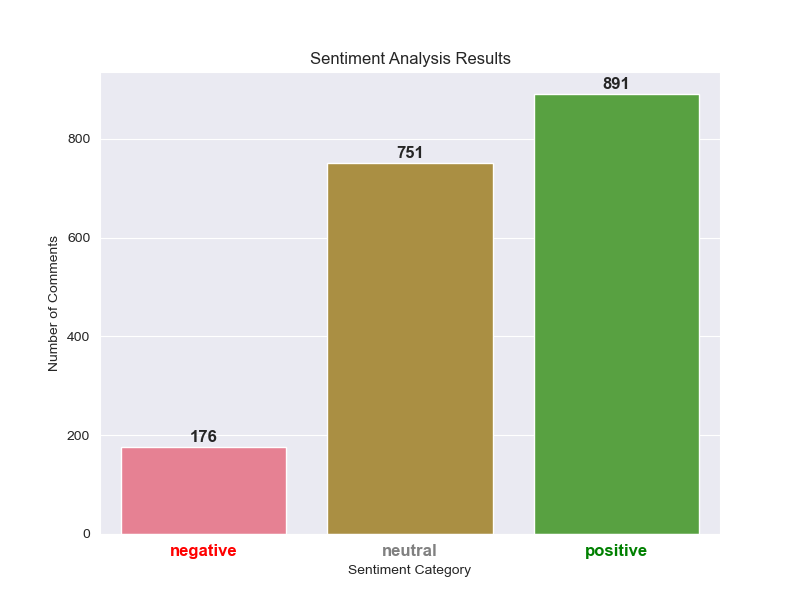
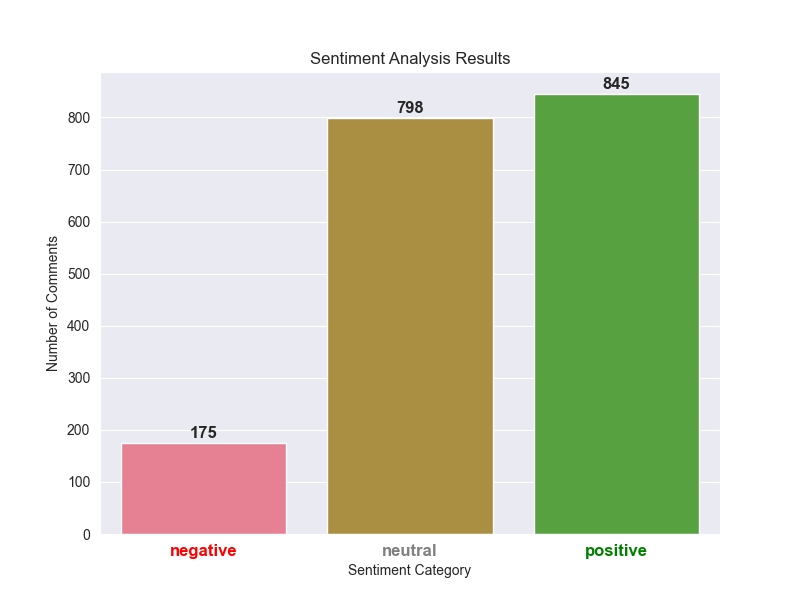
timestamp

diff --git a/templates/results.html b/templates/results.html
@@ -2,6 +2,30 @@
 <html>
 <head>
     <title>Results</title>
+    <style>
+        body {
+            font-family: Arial, sans-serif;
+            margin: 40px;
+        }
+
+        h1 {
+            text-align: center;
+            margin-bottom: 20px;
+        }
+
+        h2 {
+            margin-top: 40px;
+            margin-bottom: 10px;
+        }
+
+        img {
+            display: block;
+            margin: 20px auto;
+            max-width: 800px;
+            border: 1px solid #ddd;
+            border-radius: 5px;
+        }
+    </style>
 </head>
 <body>
     <h1>Results</h1>
@@ -9,7 +33,12 @@
     <h2>Word Cloud</h2>
     <img src="{{ url_for('static', filename='wordcloud.png') }}" alt="Word Cloud">
 
-    <h2>Additional Information</h2>
-    <p>You can add any additional information or messages here.</p>
+    <h2>Sentiment Counts</h2>
+    <img src="{{ url_for('static', filename='count.png') }}" alt="Sentiment Counts">
+
+    <h2>Word Frequencies</h2>
+    <img src="{{ url_for('static', filename='frequency.png') }}" alt="Word Frequencies">
 </body>
 </html>
+
+

diff --git a/app.py b/app.py
@@ -1,9 +1,12 @@
-from flask import Flask, render_template, request
+from flask import Flask, render_template, request, after_this_request
 import pandas as pd
+import threading
 import nltk
 import string
 import re
 import matplotlib.pyplot as plt
+import matplotlib
+matplotlib.use('agg')
 import seaborn as sns
 import demoji
 
@@ -46,6 +49,116 @@ def generate_wordcloud(df):
     plt.imshow(wordcloud, interpolation='bilinear')
     plt.axis("off")
     plt.savefig('static/wordcloud.png')
+    plt.close()
+
+def plot_sentiment_counts(df):
+    # Set the style and color palette
+    sns.set_style('darkgrid')
+    sns.set_palette('husl')
+
+    # Get the count of comments in each sentiment category
+    sentiment_counts = df['sentiment_category'].value_counts().sort_index()
+
+    # Plot the bar chart
+    fig, ax = plt.subplots(figsize=(8, 6))
+    sns.barplot(x=sentiment_counts.index, y=sentiment_counts.values, ax=ax)
+    ax.set_xlabel('Sentiment Category')
+    ax.set_ylabel('Number of Comments')
+    ax.set_title('Sentiment Analysis Results')
+
+    # Add labels to the bars
+    for i, v in enumerate(sentiment_counts.values):
+        ax.text(i, v+10, str(v), ha='center', fontweight='bold', fontsize=12)
+
+    # Label the bars
+    for i, label in enumerate(ax.get_xticklabels()):
+        sentiment = label.get_text()
+        if sentiment == 'positive':
+            label.set_text(f'{sentiment.capitalize()} comments')
+            label.set_color('green')
+        elif sentiment == 'neutral':
+            label.set_text(f'{sentiment.capitalize()} comments')
+            label.set_color('gray')
+        else:
+            label.set_text(f'{sentiment.capitalize()} comments')
+            label.set_color('red')
+            # Update the label for negative sentiment category
+            label.set_text(f'{sentiment.capitalize()} comments ({sentiment_counts[sentiment]})')
+        label.set_fontweight('bold')
+        label.set_fontsize(12)
+
+    plt.savefig('static/count.png')
+    plt.close()
+
+def plot_word_frequencies(df):
+    # Define the stop words
+    stop_words = set(stopwords.words('english'))
+
+    # Define the minimum word frequency threshold
+    min_freq = 10
+
+    # Create separate dataframes for each sentiment category
+    positive_df = df[df['sentiment_category'] == 'positive']
+    neutral_df = df[df['sentiment_category'] == 'neutral']
+    negative_df = df[df['sentiment_category'] == 'negative']
+
+    # Tokenize the comments and remove stop words for each dataframe
+    positive_words = tokenize_comments(positive_df['cleaned_comments'])
+    neutral_words = tokenize_comments(neutral_df['cleaned_comments'])
+    negative_words = tokenize_comments(negative_df['cleaned_comments'])
+
+    # Count the frequency of each word in each dataframe
+    positive_freq = nltk.FreqDist(positive_words)
+    neutral_freq = nltk.FreqDist(neutral_words)
+    negative_freq = nltk.FreqDist(negative_words)
+
+    # Remove words that appear less frequently than the minimum frequency threshold
+    positive_freq = {k: v for k, v in positive_freq.items() if v >= min_freq}
+    neutral_freq = {k: v for k, v in neutral_freq.items() if v >= min_freq}
+    negative_freq = {k: v for k, v in negative_freq.items() if v >= min_freq}
+
+    # Sort the dictionaries by word frequency in descending order
+    positive_freq = dict(sorted(positive_freq.items(), key=lambda item: item[1], reverse=True))
+    neutral_freq = dict(sorted(neutral_freq.items(), key=lambda item: item[1], reverse=True))
+    negative_freq = dict(sorted(negative_freq.items(), key=lambda item: item[1], reverse=True))
+
+    # Plot the top 20 most frequent words in each sentiment category
+    plt.figure(figsize=(15, 10))
+
+    plt.subplot(3, 1, 1)
+    plt.bar(list(positive_freq.keys())[:20], list(positive_freq.values())[:20])
+    plt.title('Most Frequent Words in Positive Comments')
+    plt.xlabel('Word')
+    plt.ylabel('Frequency')
+
+    plt.subplot(3, 1, 2)
+    plt.bar(list(neutral_freq.keys())[:20], list(neutral_freq.values())[:20])
+    plt.title('Most Frequent Words in Neutral Comments')
+    plt.xlabel('Word')
+    plt.ylabel('Frequency')
+
+    plt.subplot(3, 1, 3)
+    plt.bar(list(negative_freq.keys())[:20], list(negative_freq.values())[:20])
+    plt.title('Most Frequent Words in Negative Comments')
+    plt.xlabel('Word')
+    plt.ylabel('Frequency')
+
+    plt.tight_layout()
+
+    plt.savefig('static/frequency.png')
+    plt.close()
+
+def tokenize_comments(comment_series):
+    # Combine the comments into a single string
+    all_comments = ' '.join(comment_series.tolist())
+
+    # Tokenize the string into words
+    words = word_tokenize(all_comments)
+
+    # Remove stop words
+    filtered_words = [word for word in words if word.lower() not in stop_words]
+
+    return filtered_words
 
 @app.route('/results', methods=['POST'])
 def results():
@@ -63,12 +176,18 @@ def results():
     generate_wordcloud(df)
 
     # # Plot sentiment counts using imported function
-    # plot_sentiment_counts(df)
+    plot_sentiment_counts(df)
 
-    # # Plot word frequencies using imported function
-    # plot_word_frequencies(df)
+    # Plot word frequencies using imported function
+    plot_word_frequencies(df)
+
+    @after_this_request
+    def cleanup(response):
+        plt.close('all')  # Close all existing Matplotlib figures
+        return response
 
     return render_template('results.html')
 
 if __name__ == '__main__':
     app.run(debug=True)
+
